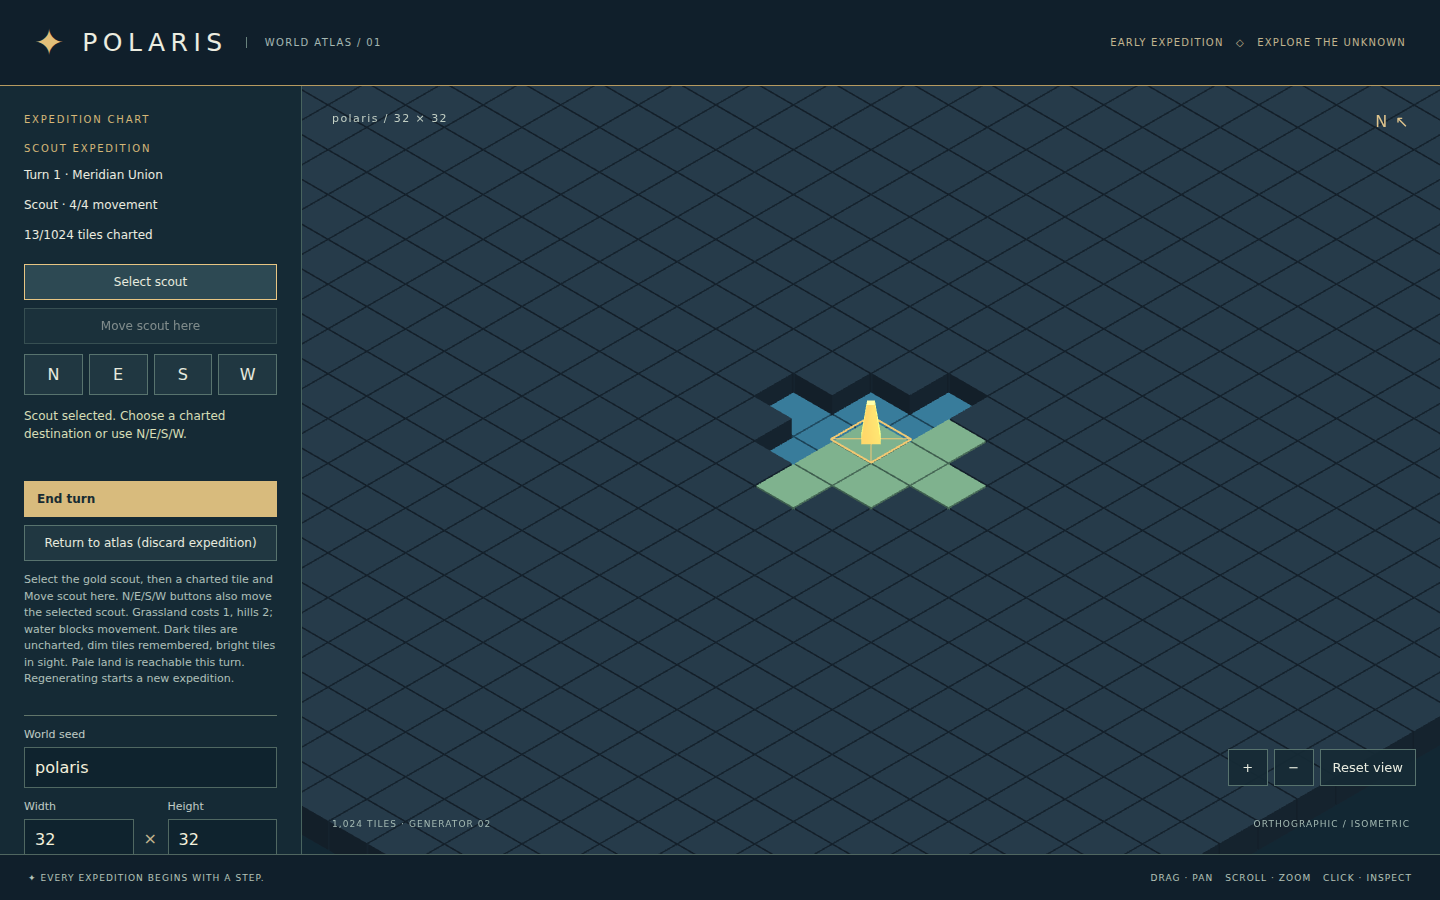
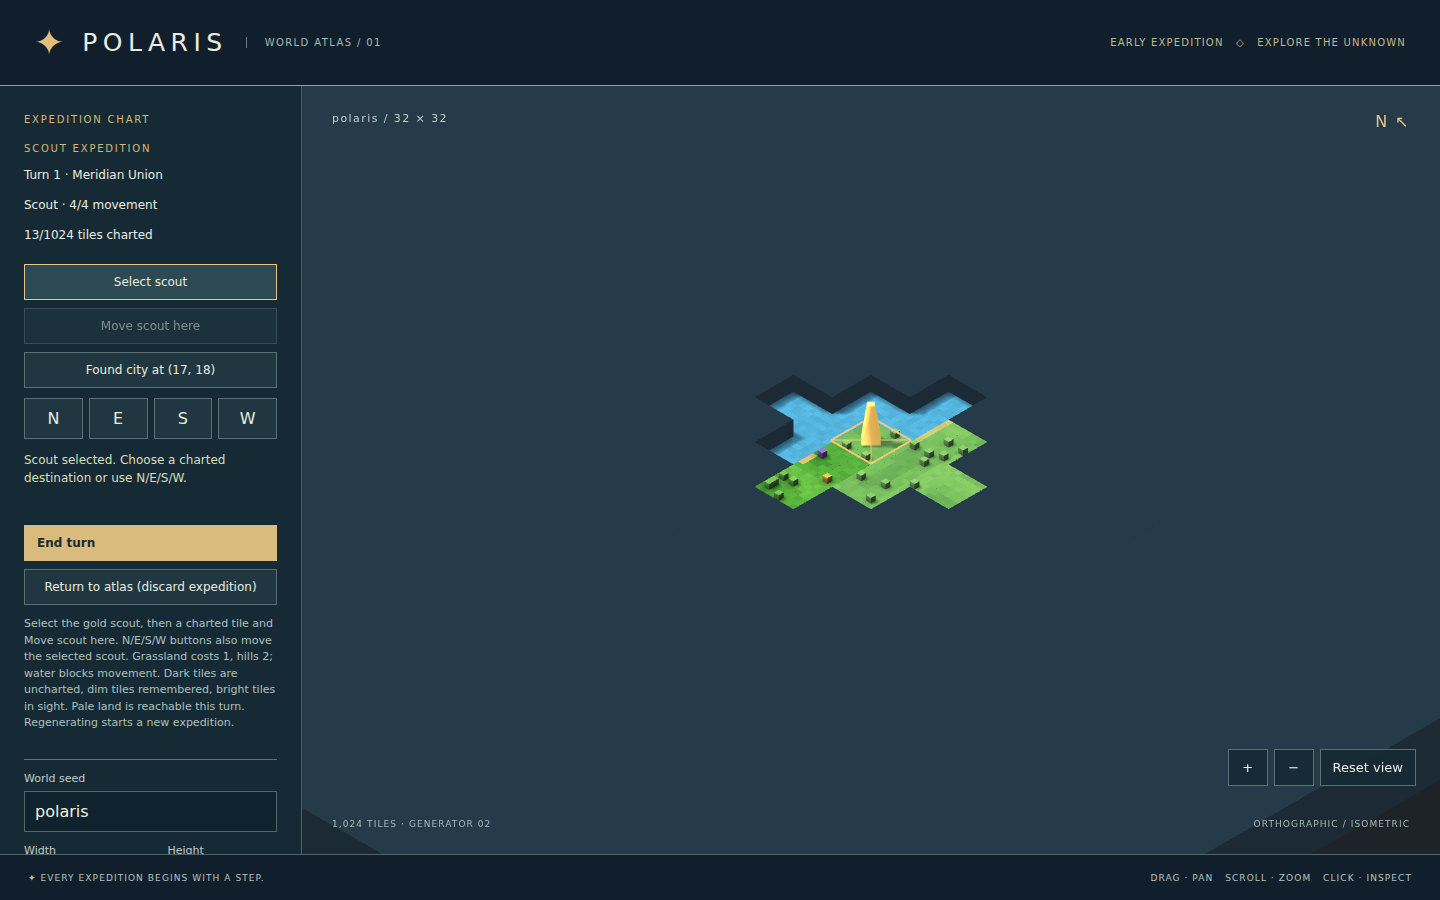
docs: refresh captures for the voxel renderer
Replace the expedition, messenger and mobile captures with those from validation run 42536336077 (commit 68781f1), add the founded city as a voxel settlement, and note that docs/showcase.png remains the authoritative reference while the voxel palette deliberately departs from it.

Changed region(s): [[0.0, 0.4044, 0.2188, 0.9644], [0.5, 0.4356, 0.6875, 0.56], [0.0938, 0.8711, 0.1562, 0.9644]]

diff --git a/README.md b/README.md
@@ -4,6 +4,8 @@ An original voxel-isometric strategy **foundation**, not a complete 4X game. The
 
 ![Polaris generator 2 showcase, seed polaris, 64 × 48, captured from the production app](docs/showcase.png)
 
+*This image is the project's authoritative visual reference and predates the voxel renderer. The voxel renderer keeps its landforms, composition, scale and camera but deliberately uses a brighter diorama palette with soft shadows (see the [expedition captures](#visual-overview)); adopting it as the new reference is an open decision.*
+
 ## Plan and visual direction
 
 - [Game design and planned first playable](docs/game-design.md)
@@ -55,7 +57,7 @@ is active.
 To try a real phone on the same Wi-Fi, run `npm run dev -- --host` and open the
 printed *Network* URL on the phone.
 
-Mobile captures from [validation run 42527914483](https://github.com/aschauera/polaris-game/actions/runs/42527914483), application commit `d9b6a3d`, seed `polaris`, Linux Chromium/SwiftShader with touch emulation (portrait 390 × 844; landscape 844 × 390):
+Mobile captures from [validation run 42536336077](https://github.com/aschauera/polaris-game/actions/runs/42536336077), application commit `68781f1`, seed `polaris`, Linux Chromium/SwiftShader with touch emulation (portrait 390 × 844; landscape 844 × 390):
 
 ![Phone portrait atlas: map above the independently scrolling controls](docs/mobile-phone-portrait-atlas.png)
 
@@ -63,7 +65,7 @@ Mobile captures from [validation run 42527914483](https://github.com/aschauera/p
 
 ![Phone landscape atlas using the desktop-style side-by-side layout](docs/mobile-phone-landscape-atlas.png)
 
-These are emulated browser captures, not evidence from physical iOS/Android devices or mobile GPUs. The run passed **91 unit tests** and **21 browser tests**, plus type-check, lint and production build.
+These are emulated browser captures, not evidence from physical iOS/Android devices or mobile GPUs. The run passed **106 unit tests** and **21 browser tests**, plus type-check, lint and production build.
 
 ### Docker and Azure Container Apps
 
@@ -294,13 +296,15 @@ Regenerating during an expedition starts a fresh expedition on the new world. In
 
 ### Visual overview
 
-Fresh production-app captures from [validation run 42239574200](https://github.com/aschauera/polaris-game/actions/runs/42239574200), application commit `a767df2`, seed `polaris`, 32 × 32, 1440 × 900 viewport, Linux Chromium/SwiftShader:
+Fresh production-app captures from [validation run 42536336077](https://github.com/aschauera/polaris-game/actions/runs/42536336077), application commit `68781f1`, seed `polaris`, 32 × 32, 1440 × 900 viewport, Linux Chromium/SwiftShader:
 
 ![Turn 1: the selected scout and its initial sight area, surrounded by uniform uncharted terrain](docs/expedition.png)
 
 ![Turn 2: explored terrain stays dim, current sight remains bright, and the scout stays readable among trees](docs/expedition-explored.png)
 
-These are functional UI captures, not concept art or evidence of native-GPU performance. This revision passed **39 unit tests**, **10 browser tests**, type-check, lint and production build in that run.
+![Turn 3: the founded city drawn as a voxel settlement, a stone keep with a gold banner and red-roofed houses for population 2, after its Guard completed](docs/expedition-city.png)
+
+These are functional UI captures, not concept art or evidence of native-GPU performance. This revision passed **106 unit tests**, **21 browser tests**, type-check, lint and production build in that run.
 
 ## Play by messenger
 
@@ -331,7 +335,7 @@ How it behaves:
 
 ### Visual overview
 
-Fresh production-app captures from [validation run 42527914483](https://github.com/aschauera/polaris-game/actions/runs/42527914483), application commit `d9b6a3d`, seed `polaris`, 32 × 32, Linux Chromium/SwiftShader. The idle panel and the match list are 1440 × 900; the two device captures are 1100 × 760 and come from two isolated browser contexts of one test:
+Fresh production-app captures from [validation run 42536336077](https://github.com/aschauera/polaris-game/actions/runs/42536336077), application commit `68781f1`, seed `polaris`, 32 × 32, Linux Chromium/SwiftShader. The idle panel and the match list are 1440 × 900; the two device captures are 1100 × 760 and come from two isolated browser contexts of one test:
 
 ![The atlas with the Play by messenger panel before a match: start a match or open a received turn](docs/messenger-idle.png)
 
@@ -341,7 +345,7 @@ Fresh production-app captures from [validation run 42527914483](https://github.c
 
 ![Your matches on one device: the match named Andreas is marked in gold because it is your turn, the other waits for Lantern Compact](docs/messenger-match-list.png)
 
-These are functional UI captures, not concept art or evidence of native-GPU performance. This revision passed **91 unit tests**, **21 browser tests**, type-check, lint and production build in that run.
+These are functional UI captures, not concept art or evidence of native-GPU performance. This revision passed **106 unit tests**, **21 browser tests**, type-check, lint and production build in that run.
 
 ## Map inputs and controls
 
